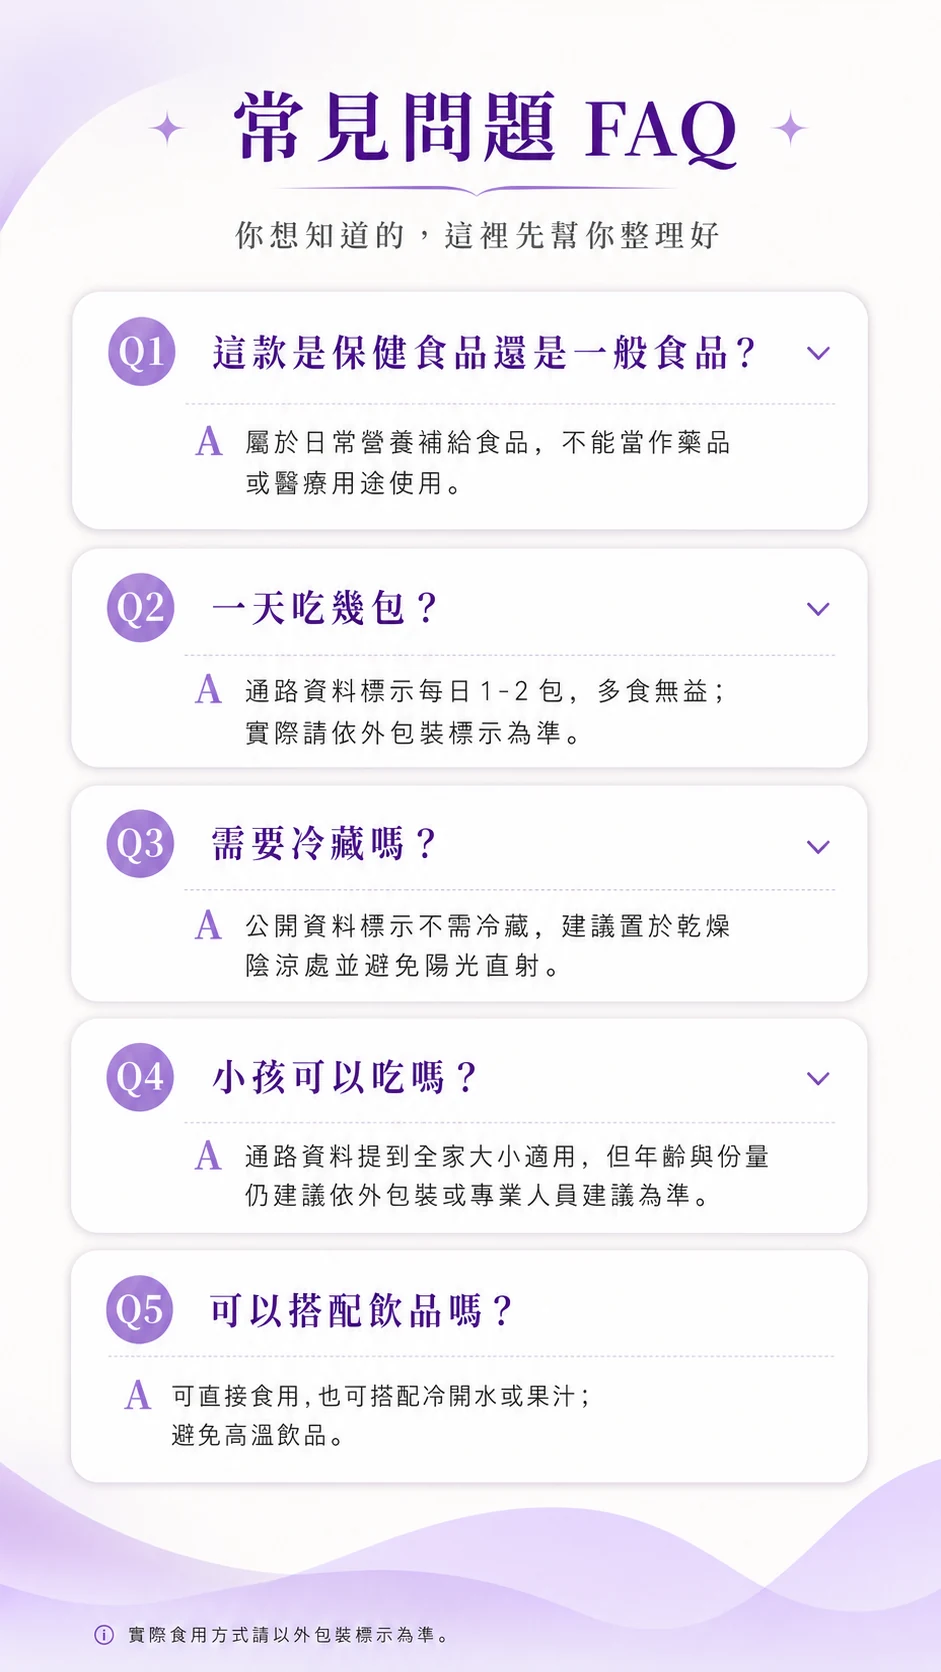
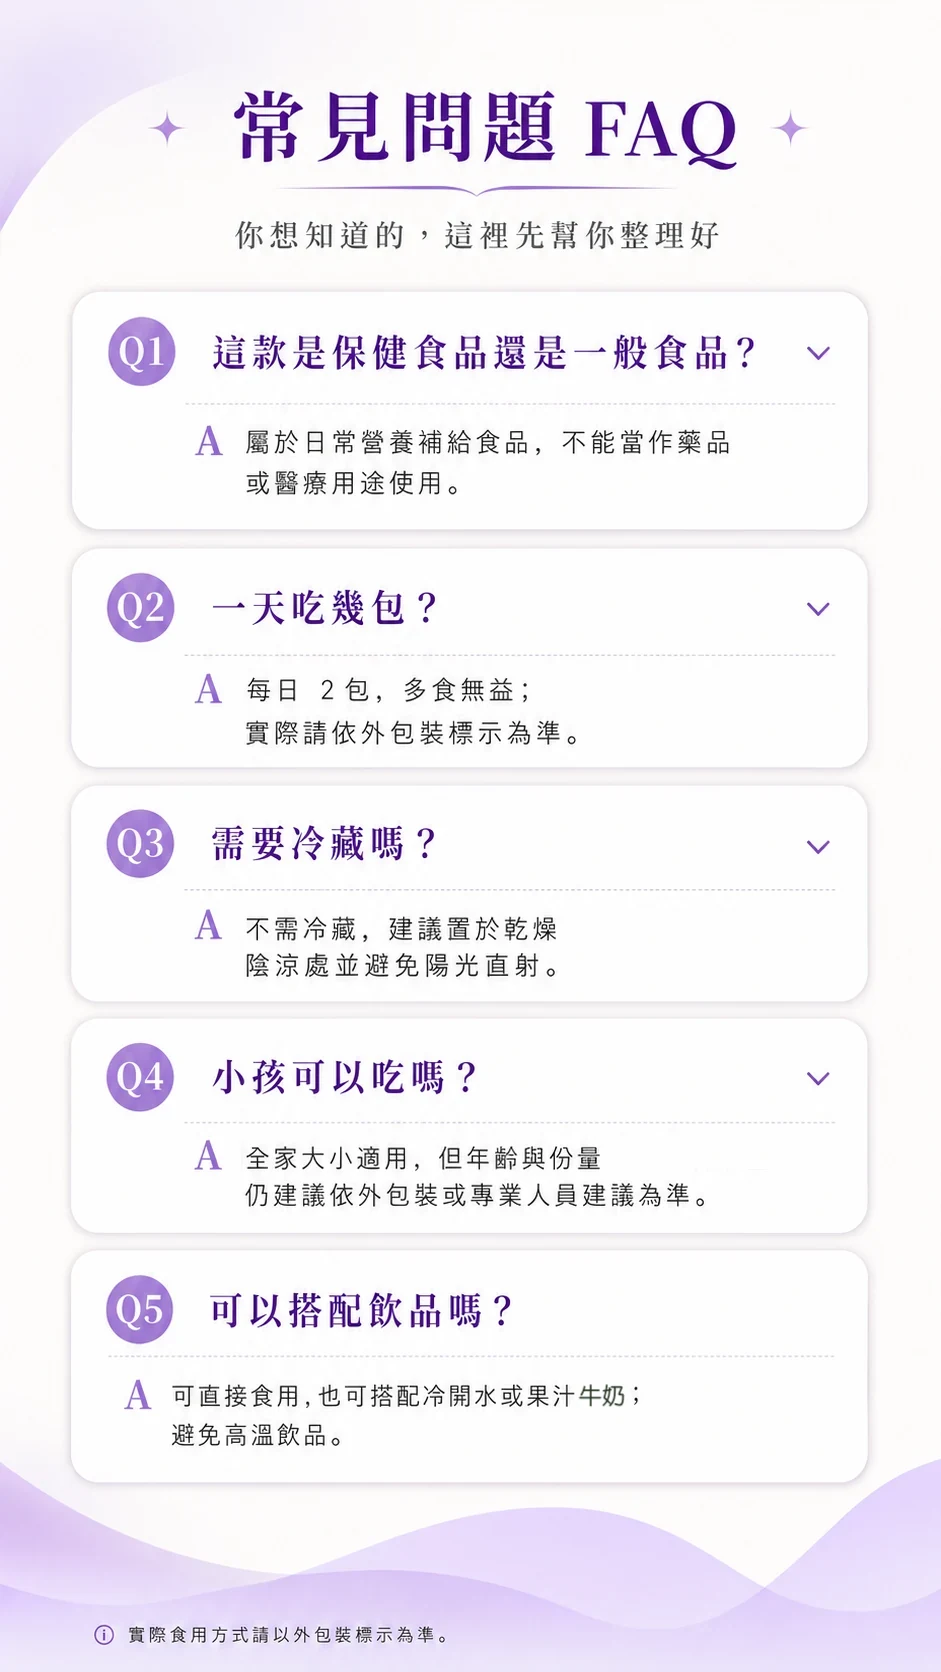
ok

diff --git a/index.html b/index.html
@@ -81,6 +81,18 @@
       <figure class="screen-wrap">
         <img
           class="screen"
+          src="assets/05b.webp"
+          width="576"
+          height="1024"
+          alt="8株專利益生菌組合：3株調整體質菌種與5株調整消化道菌種"
+          loading="lazy"
+          decoding="async"
+        />
+      </figure>
+
+      <figure class="screen-wrap">
+        <img
+          class="screen"
           src="assets/06.webp"
           width="941"
           height="1672"
@@ -142,9 +154,9 @@
         <img
           class="screen"
           src="assets/11.webp"
-          width="941"
-          height="1672"
-          alt="第 11 屏"
+          width="576"
+          height="1024"
+          alt="哪些人適合放進日常：親子家庭、上班族、外食族、孕媽咪、學生族、銀髮族等"
           loading="lazy"
           decoding="async"
         />
@@ -226,21 +238,9 @@
         <img
           class="screen"
           src="assets/18.webp"
-          width="1024"
-          height="1536"
-          alt="第 18 屏"
-          loading="lazy"
-          decoding="async"
-        />
-      </figure>
-
-      <figure class="screen-wrap">
-        <img
-          class="screen"
-          src="assets/19.webp"
-          width="1122"
-          height="1402"
-          alt="第 19 屏"
+          width="768"
+          height="1024"
+          alt="連續十年 SNQ：專利 7+1 雙效益生菌，品質把關更安心給全家"
           loading="lazy"
           decoding="async"
         />
@@ -433,6 +433,18 @@
           width="1122"
           height="1402"
           alt="第 35 屏"
+          loading="lazy"
+          decoding="async"
+        />
+      </figure>
+
+      <figure class="screen-wrap">
+        <img
+          class="screen"
+          src="assets/36.webp"
+          width="576"
+          height="1024"
+          alt="成分與營養標示：產品資訊、營養標示與保存使用方式"
           loading="lazy"
           decoding="async"
         />